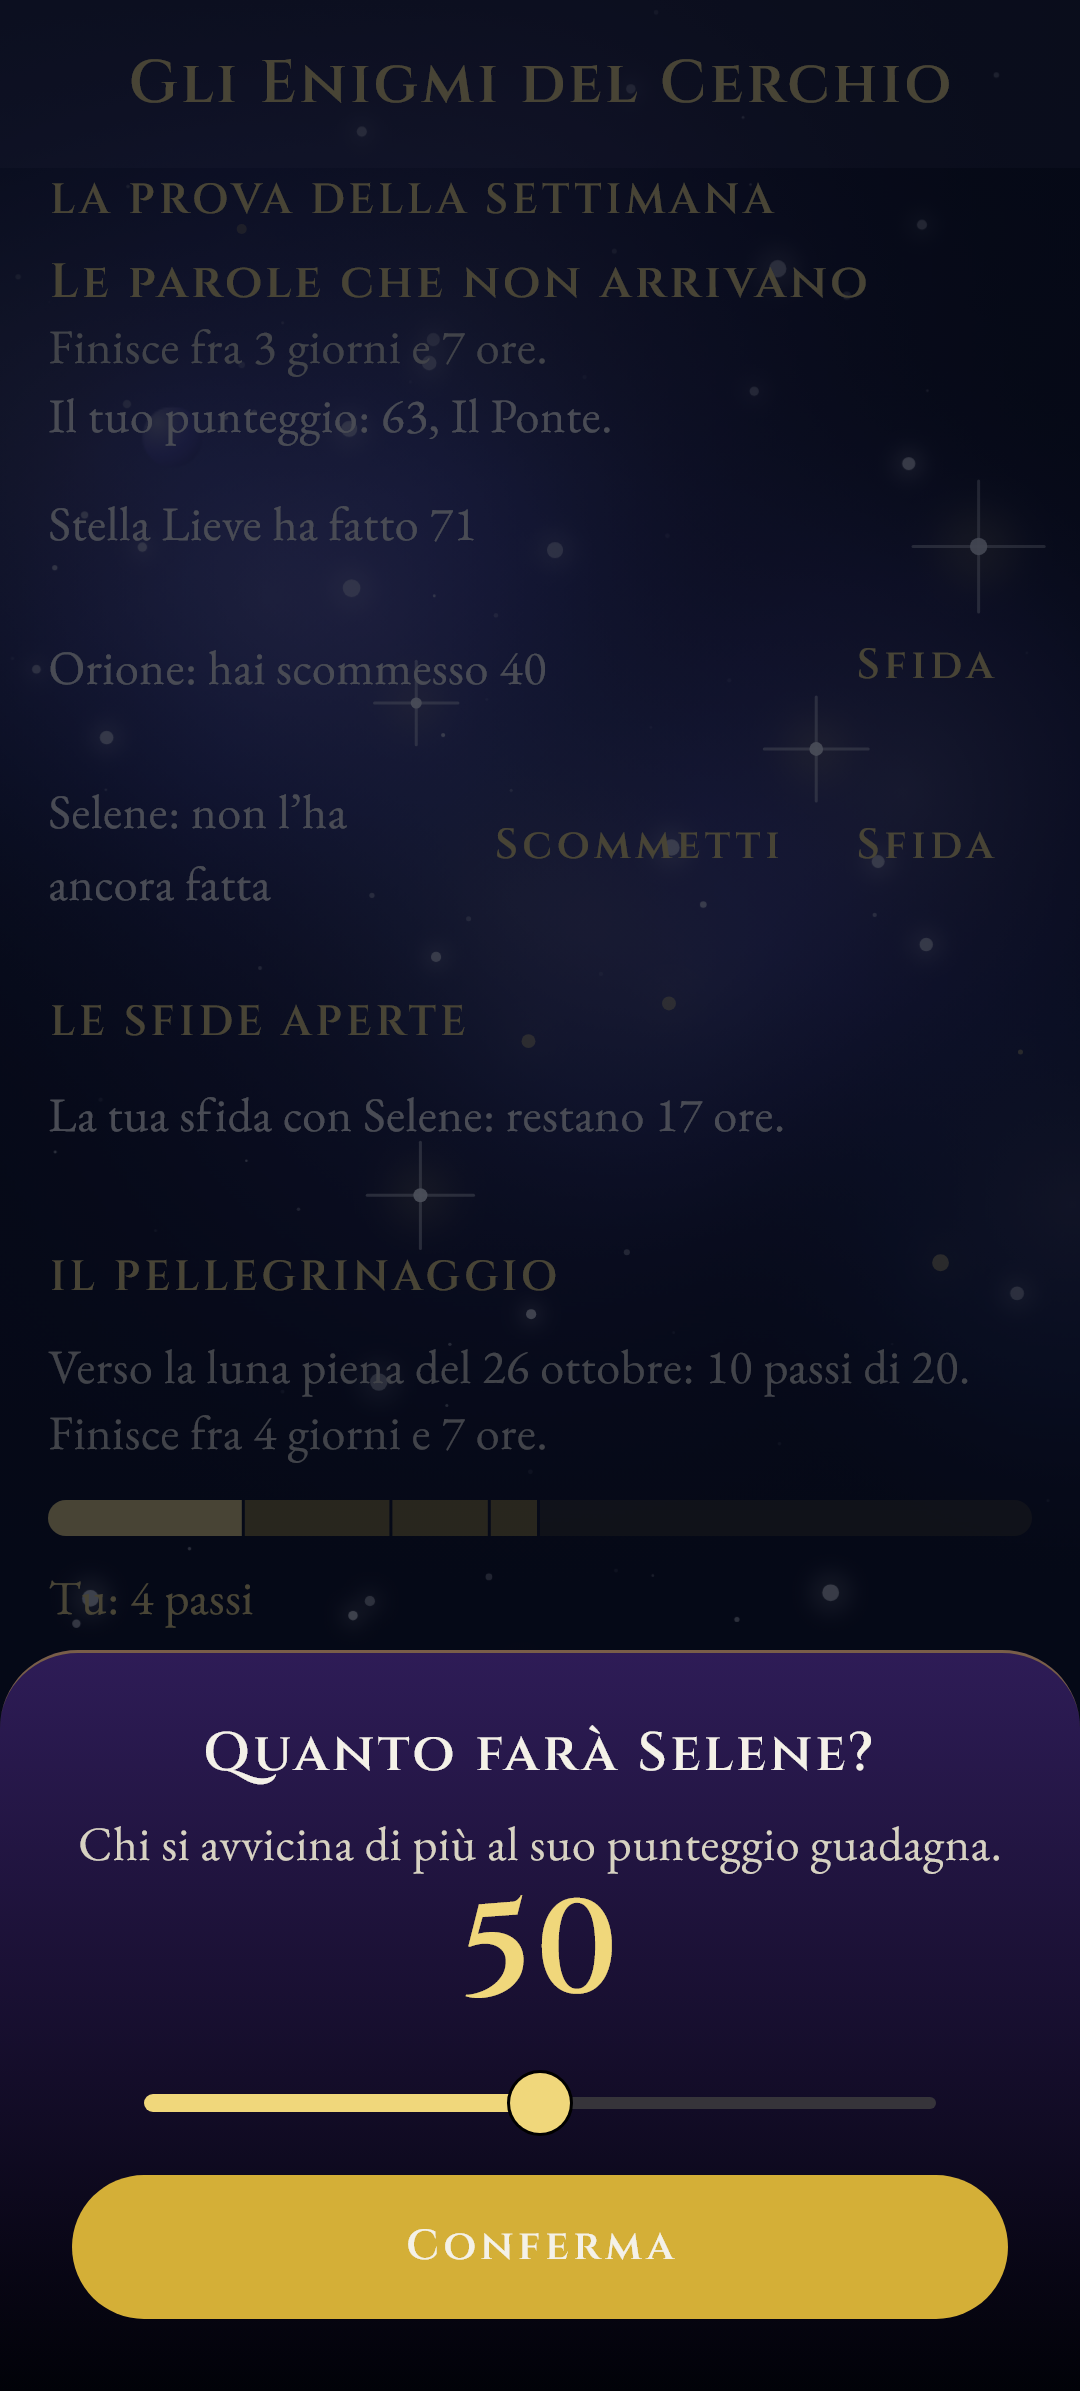
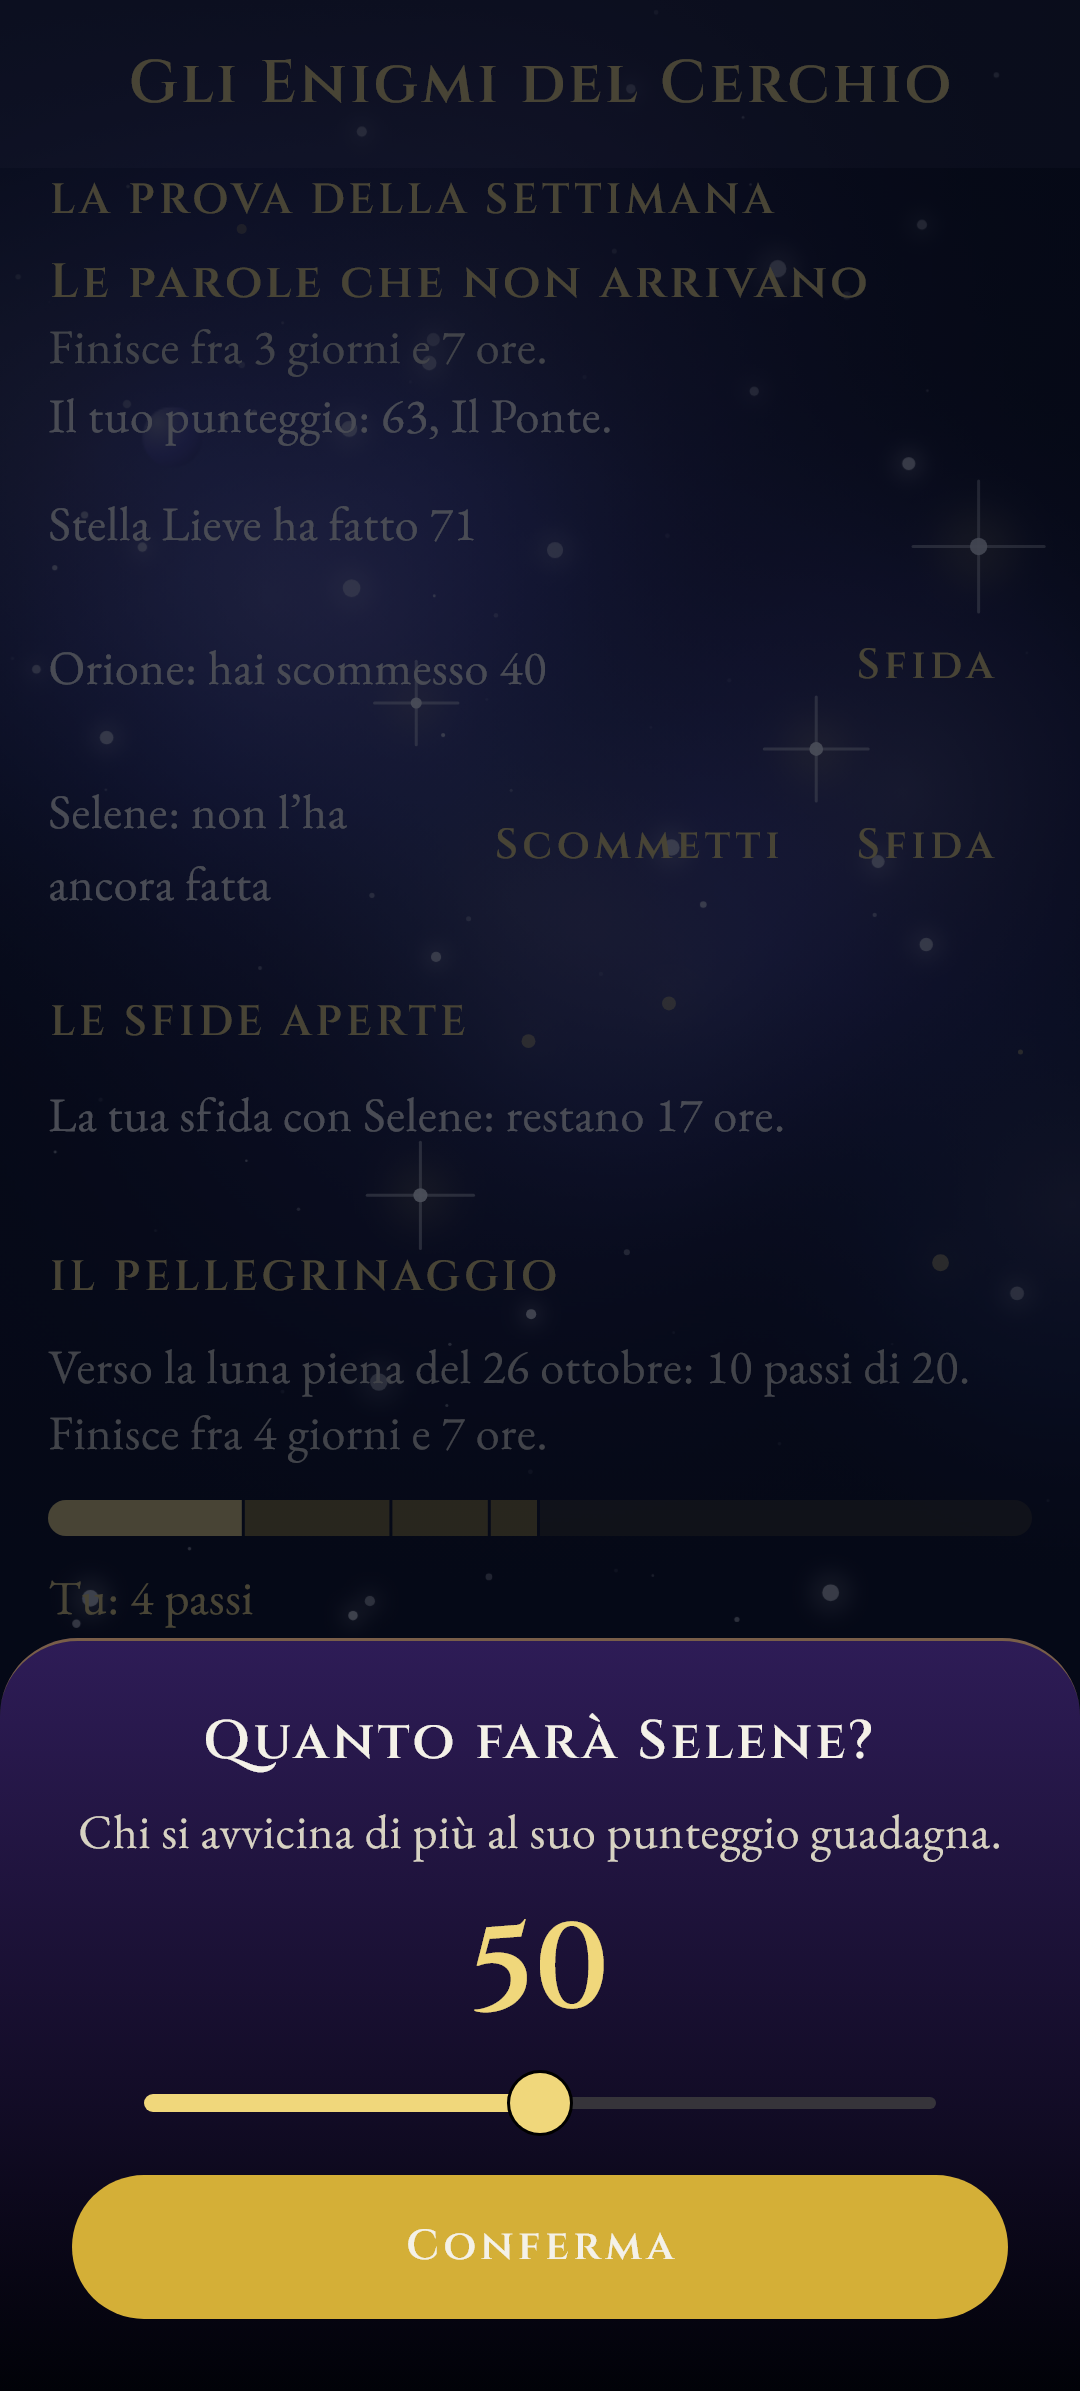
FF, i tre rossi della suite intera su 903c9f57: le due cifre degli Enigmi sui ruoli tipografici (il numero della scommessa su numeroDelGiorno, con un respiro sopra; il punteggio della Prova sul ruolo nuovo punteggioDellaProva), misure a mano 74 -> 72 e file 34 -> 32; il rapporto FF registrato come c

Changed region(s): [[0.0, 0.6809, 1.0, 0.8356], [0.0611, 0.7428, 0.1222, 0.7737]]

diff --git a/lib/features/cerchio/enigmi/gli_enigmi_screen.dart b/lib/features/cerchio/enigmi/gli_enigmi_screen.dart
@@ -120,10 +120,11 @@ class _GliEnigmiScreenState extends State<GliEnigmiScreen> {
                       .copyWith(color: ColorTokens.textPrimary)),
               const SizedBox(height: SpacingTokens.xs),
               RigaDegliEnigmi(spiega),
+              const SizedBox(height: SpacingTokens.md),
               Text('${valore.round()}',
                   key: const Key('enigmi_numero'),
-                  style: TypographyTokens.cerimoniale().copyWith(
-                      color: MaestroPalette.neutral.goldSoft, fontSize: 44)),
+                  style: TypographyTokens.numeroDelGiorno()
+                      .copyWith(color: MaestroPalette.neutral.goldSoft)),
               Slider(
                 key: const Key('enigmi_cursore'),
                 value: valore,

diff --git a/lib/design_system/tokens/typography_tokens.dart b/lib/design_system/tokens/typography_tokens.dart
@@ -133,6 +133,12 @@ class TypographyTokens {
   static TextStyle numeroDelGiorno({double weight = 600}) =>
       display(size: 40, weight: weight).copyWith(height: 1.0, letterSpacing: 0);
 
+  /// **IL PUNTEGGIO DELLA PROVA**, ordine FF: la cifra che la persona ha
+  /// fatto nella Prova della settimana, sola al centro sopra la sua figura.
+  /// E' il momento della rivelazione della Prova, uno per schermata.
+  static TextStyle punteggioDellaProva({double weight = 600}) =>
+      display(size: 56, weight: weight).copyWith(height: 1.0, letterSpacing: 0);
+
   /// Il titolo di una sezione dentro una schermata.
   static TextStyle titoloSezione({double weight = 600}) =>
       display(size: 22, weight: weight);

diff --git a/lib/features/cerchio/enigmi/la_prova_screen.dart b/lib/features/cerchio/enigmi/la_prova_screen.dart
@@ -111,8 +111,8 @@ class _LaProvaScreenState extends State<LaProvaScreen> {
                 Text('$punteggio',
                     key: const Key('prova_punteggio'),
                     textAlign: TextAlign.center,
-                    style: TypographyTokens.cerimoniale()
-                        .copyWith(color: palette.goldSoft, fontSize: 56)),
+                    style: TypographyTokens.punteggioDellaProva()
+                        .copyWith(color: palette.goldSoft)),
                 Text(fascia.figura,
                     textAlign: TextAlign.center,
                     style: TypographyTokens.titoloScheda()
